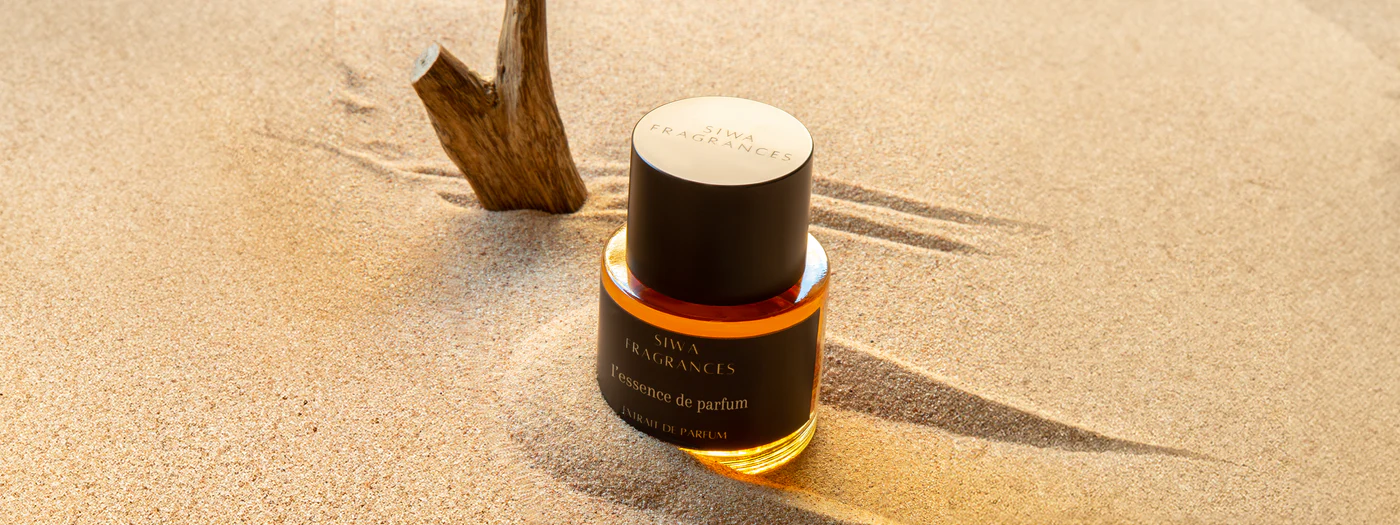
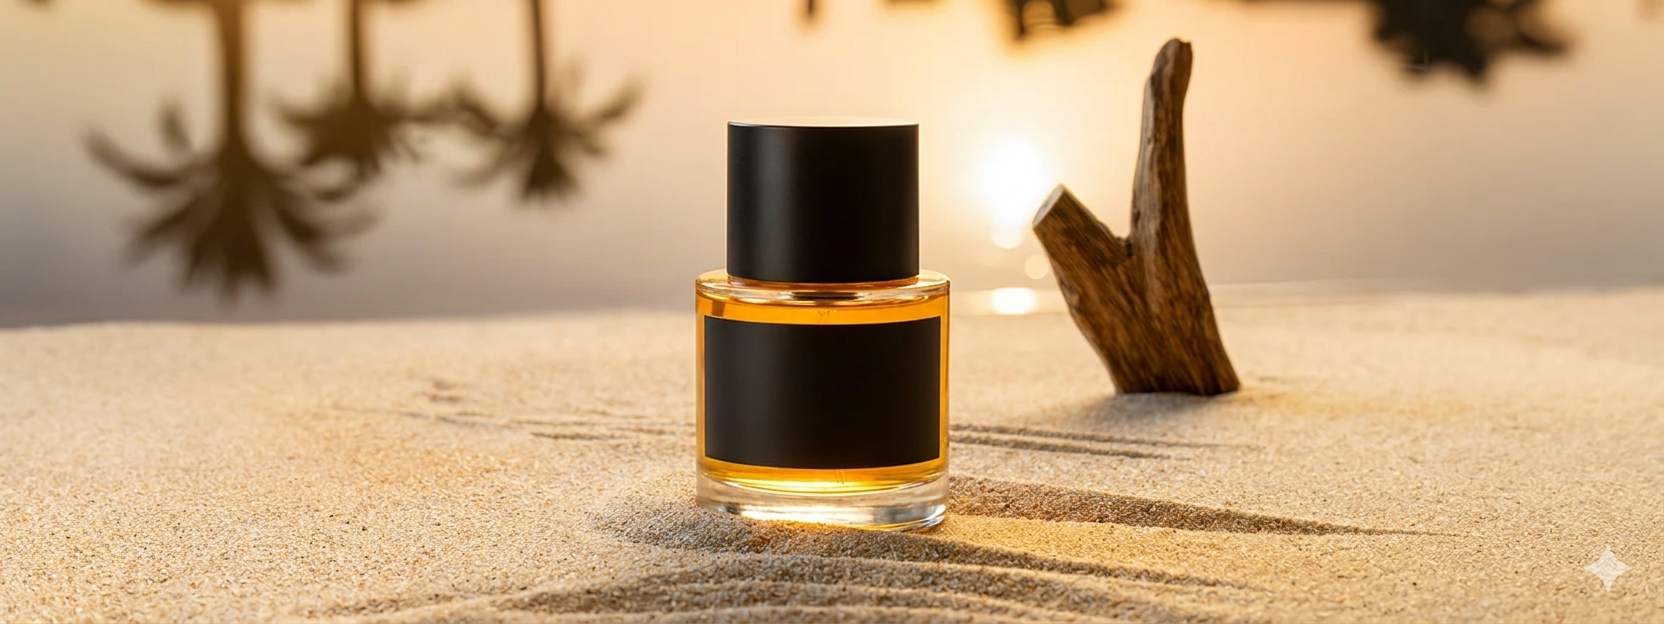
إضافة تعديلات جديدة على الموقع

diff --git a/app/sectionabout/sectionabout.js b/app/sectionabout/sectionabout.js
@@ -44,14 +44,14 @@ export default function About() {
 
   return (
     <>
-      <img src="/About_Us.webp" className="w-full h-[400px] object-cover mt-30" />
+      <img src="/2.webp" className="w-full h-[400px] object-cover mt-30" />
 
       <div className="w-full">
         <div className="max-w-3xl mx-auto px-6 py-20">
           <h1 className="text-center text-3xl tracking-[4px] font-medium mb-10">ABOUT US</h1>
 
           <p className="text-gray-700 leading-7 mb-6">
-            Siwa Fragrances is an esteemed Egyptian maison, weaving heritage and identity into every bottle. 
+            ELIXIR Fragrances is an esteemed Egyptian maison, weaving heritage and identity into every bottle. 
             We exist to elevate your daily ritual with scents that are both a personal signature and a profound 
             connection to culture, all while embracing unparalleled comfort.
           </p>
@@ -101,7 +101,7 @@ export default function About() {
 
         <div className="max-w-5xl mx-auto py-24 px-6">
           <div className="grid md:grid-cols-2 gap-10 items-center">
-            <img src="/5.1.jpg" className="rounded-2xl w-full h-[350px] object-cover" />
+            <img src="/logo5.avif" className="rounded-2xl w-full h-[350px] object-cover" />
             <div>
               <h2 className="text-2xl font-semibold mb-4 tracking-wide">A Journey Through Scent</h2>
               <p className="text-gray-700 leading-7 mb-6">

diff --git a/app/sectioncontact/sectioncontact.js b/app/sectioncontact/sectioncontact.js
@@ -38,7 +38,7 @@ export default function Contact() {
   return (
     <>
       {/* صورة رئيسية */}
-      <img src="/Contact_Us.webp" className="md:w-full  md:h-[500px] mt-8 h-[300px] object-cover" />
+      <img src="bundles_1 (1).webp" className="md:w-full  md:h-[500px] mt-8 h-[300px] object-cover" />
 
       <div className="max-w-6xl mx-auto p-6 mb-8">
         <h1 className="text-5xl font-light text-center mb-4 mt-7">Contact Us</h1>
@@ -80,13 +80,13 @@ export default function Contact() {
         {/* معلومات الاتصال */}
         <div className="bg-gray-100 mt-7 p-6 rounded-2xl mb-8 text-gray-700 text-lg">
           <div className="flex items-center gap-4 mb-3 mt-6">
-            <FaEnvelope className="text-xl" /> info@example.com
+            <FaEnvelope className="text-xl" /> elixir@gmail.com
           </div>
           <div className="flex items-center gap-4 mb-3">
-            <FaPhone className="text-xl" /> +123 456 7890
+            <FaPhone className="text-xl" /> +20 0115 458265
           </div>
           <div className="flex items-center gap-4">
-            <FaMapMarkerAlt className="text-xl" /> 123 Street, City, Country
+            <FaMapMarkerAlt className="text-xl" /> abas al aqad Street, Cairo, egypt
           </div>
         </div>
  

diff --git a/app/sectionshop/sectionshop.js b/app/sectionshop/sectionshop.js
@@ -105,7 +105,7 @@ export default function ShopPage() {
         {/* Header Section */}
         <div className="mb-16 text-center md:text-left">
           <h1 className="text-5xl md:text-8xl font-black tracking-tighter uppercase leading-none italic mb-8">
-            Siwa <span className="text-gray-200 block md:inline">Store.</span>
+            ELIXIR <span className="text-gray-200 block md:inline">Store.</span>
           </h1>
           
           <div className="flex flex-col md:flex-row gap-4 justify-between items-center bg-gray-50/50 p-4 rounded-[2rem] border border-gray-100">
